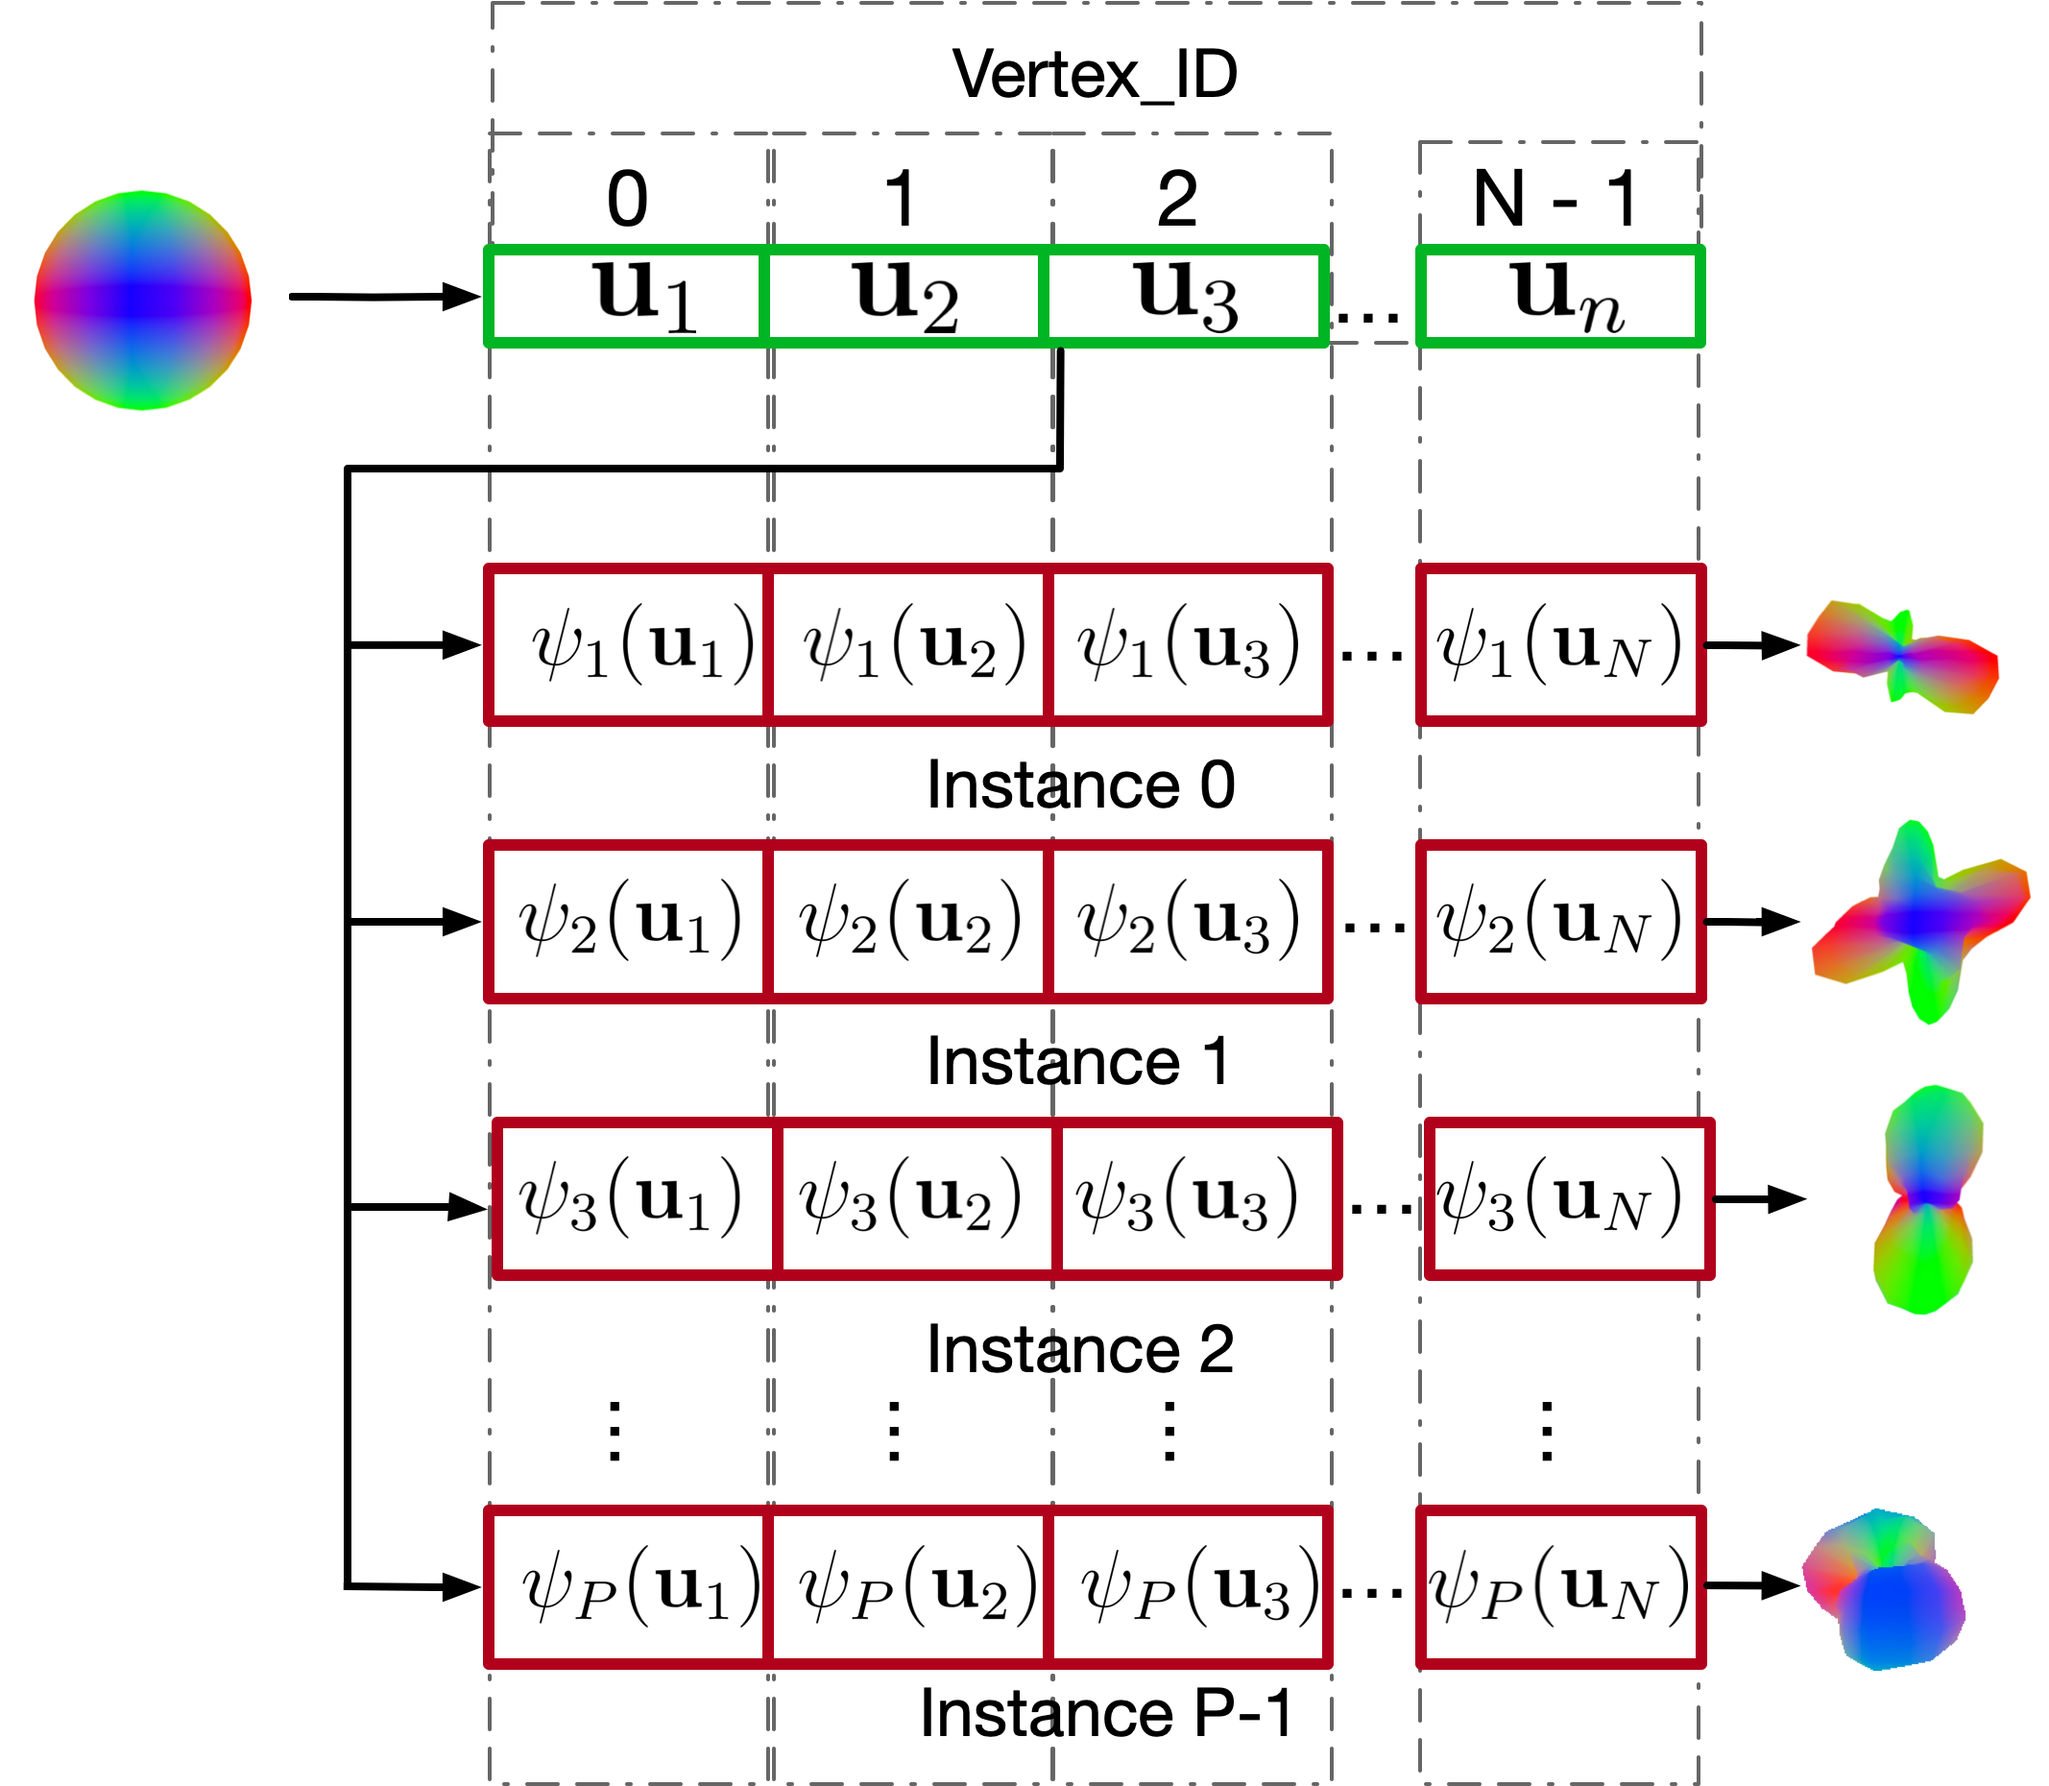
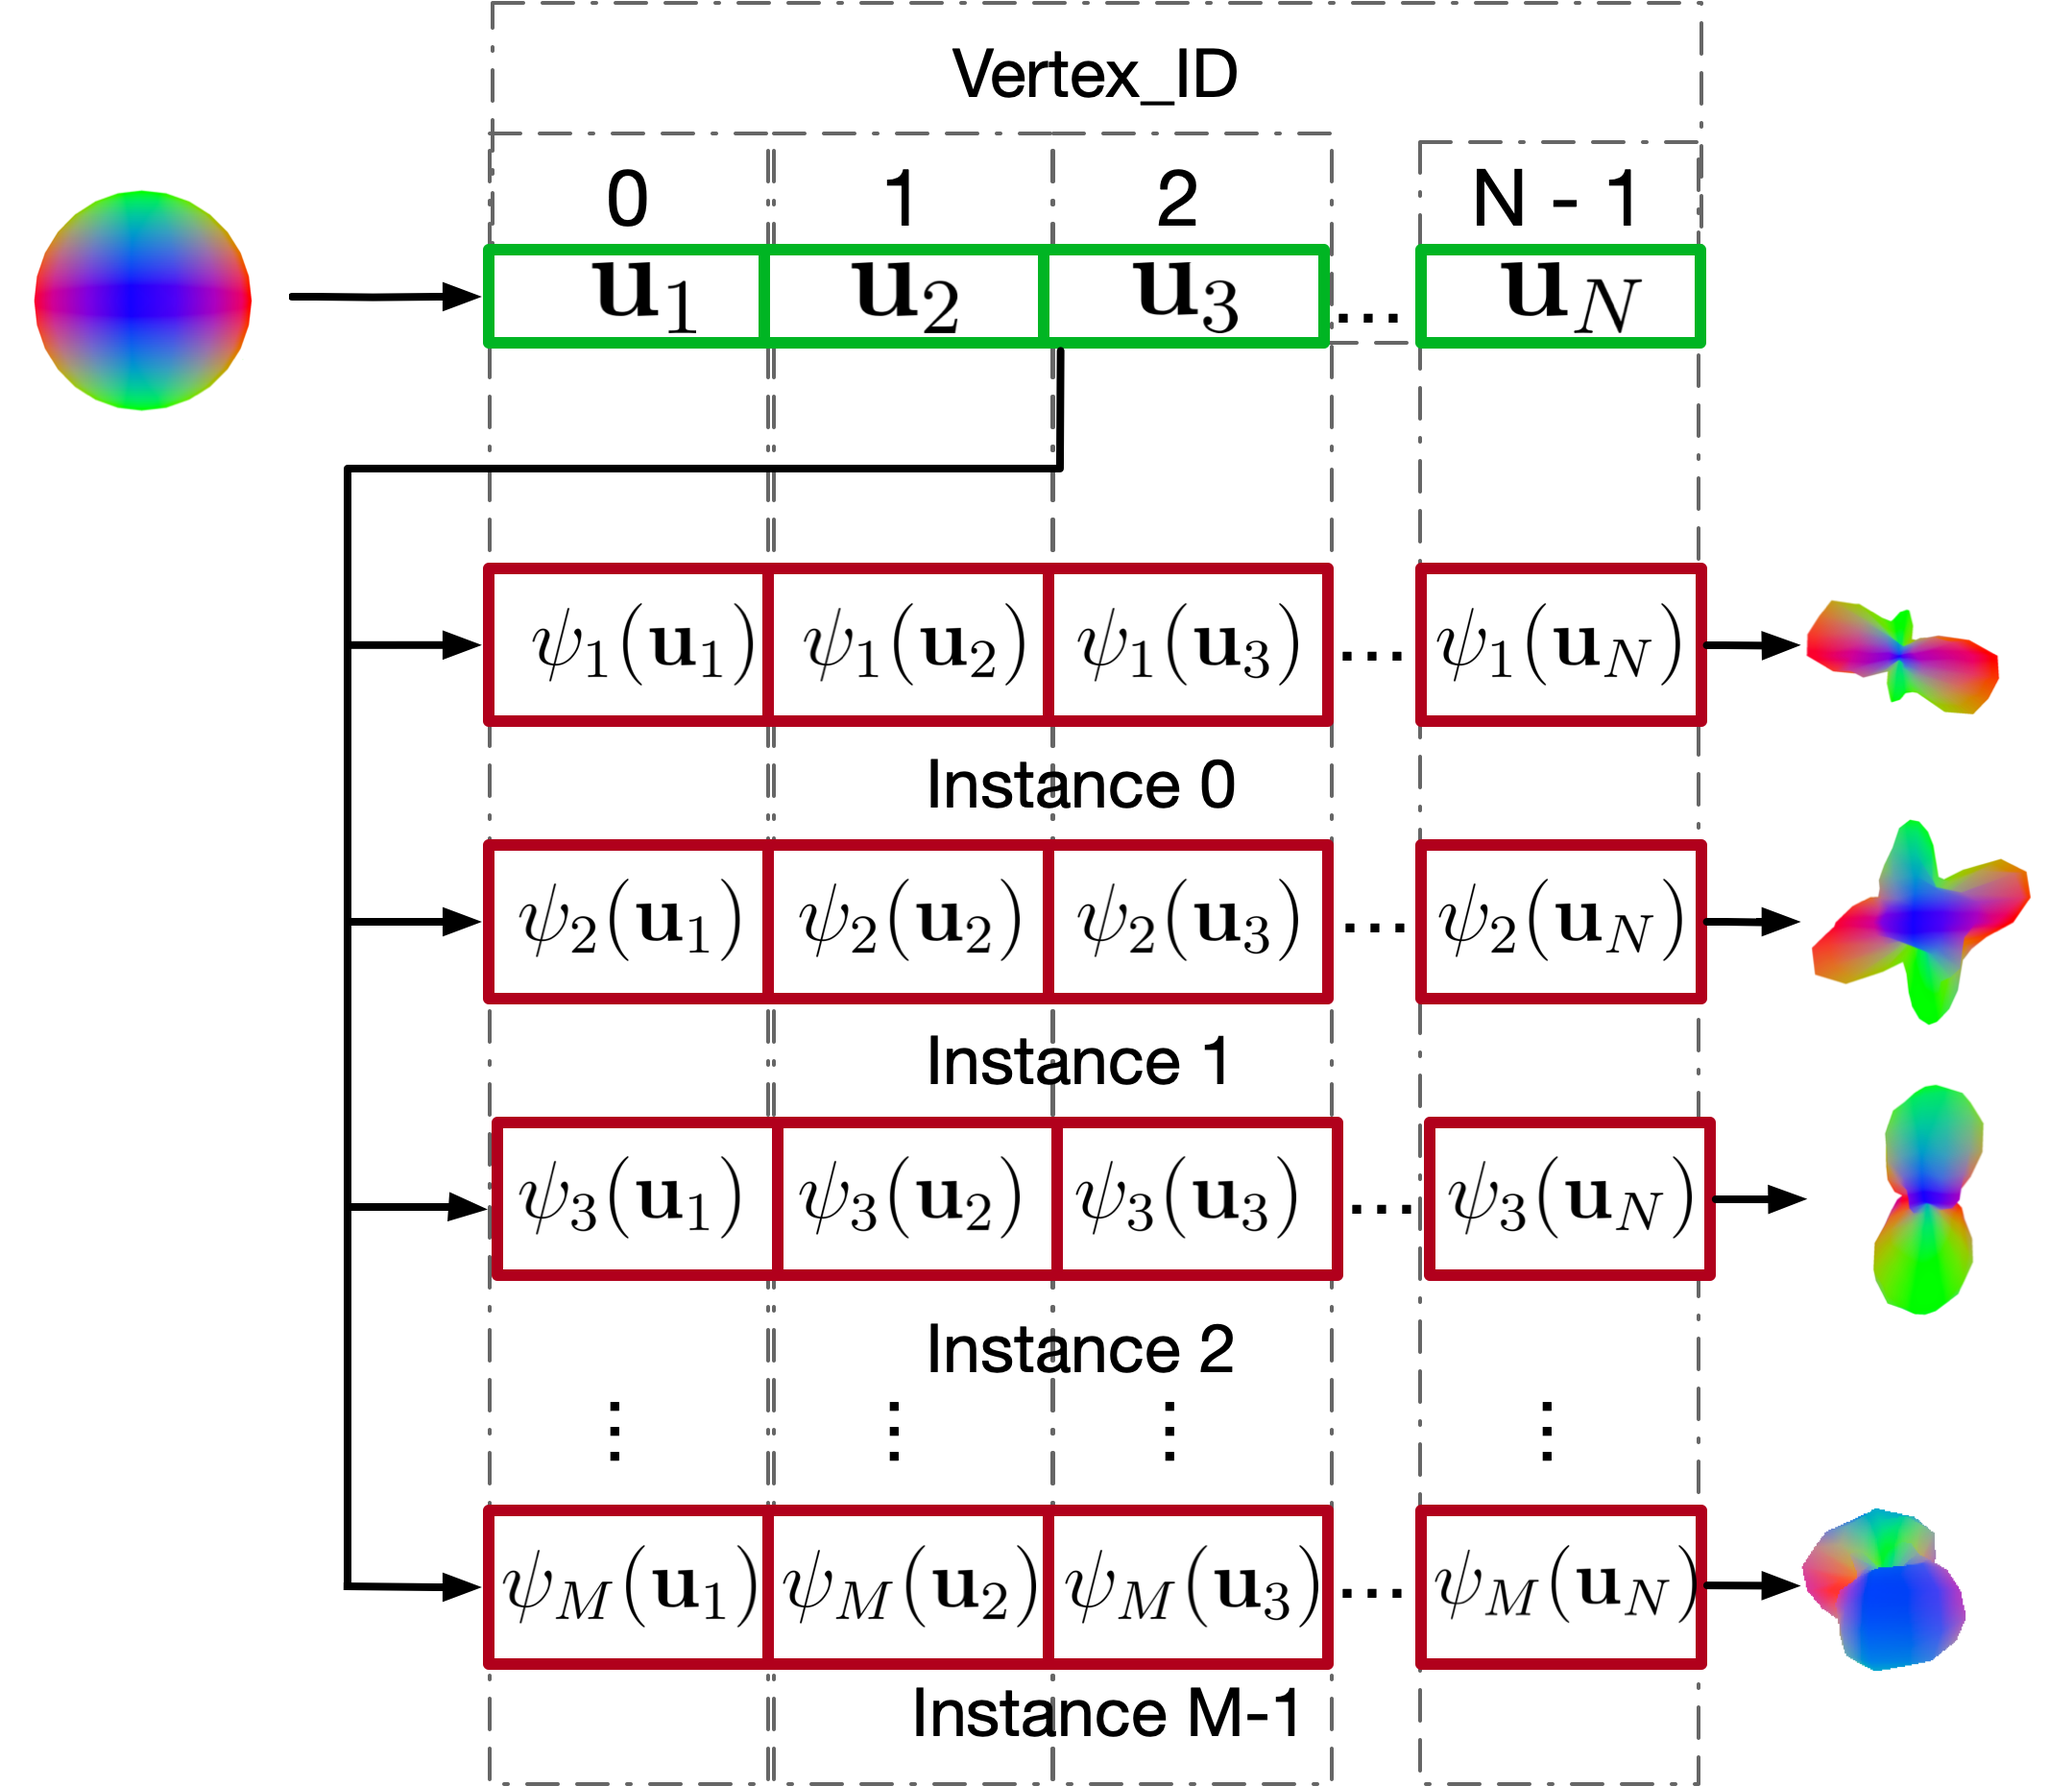
14.03 changes: changed the instances amount from P to M, corrected images accordingly. Changed a translation point from P to C, which is the real variable's label.

diff --git a/wscg-template.tex b/wscg-template.tex
@@ -54,6 +54,7 @@
 
 \usepackage{nopageno}       % no page numbers at all; uncomment for final version
 \usepackage{bm} 
+\usepackage{amsmath,amsfonts,amssymb}
 
 
 
@@ -305,8 +306,10 @@ First, let us define the vector set $\Upsilon$ as a function of $\Pi$ as shown i
 \label{eq::u_vector_set}
 \Upsilon = \{\bm{u}_k | \bm{u}_k = \frac{P_k - O}{|P_k - O|}, 
 \begin{tabular}{@{}c@{}}
-\small{$\forall P_k \in \Pi; O$ is the origin} \\
-\small{and center of the sphere}
+\small{$\forall P_k \in \Pi; O$ is the origin in } \\
+\small{$\mathbb{R}^3$ and sphere's center}
+
+
 
 \end{tabular}
 \text{ }\}
@@ -326,7 +329,7 @@ Due to the large amount of data sent to the GPU in the drawing requests, the goa
 %\sout{In this rendering scheme, the set consisting of the translation matrices and the ODF profiles consists are sent from the CPU to the GPU in each drawing request. Hence, in order to achieve the goal of interactivity, it is desirable that the data traffic between both parts is as little as possible.}
 
 \subsubsection{Translation}
-Let P be the number of instances of the rendering scheme and glyphs to be drawn. The translation points are organized as a vector of points $[C_1,C_2, \dots, C_P]$, where $C_i = (x_i, y_i, z_i)$, and sent to the GPU as an attribute. Each point of this attribute is unique for each one of the P instances of the spherical mesh.
+Let $M$ be the number of glyphs to be drawn, corresponding to the amount of instances of the spherical mesh as well. The translation points are organized as a vector of points $[C_1,C_2, \dots, C_M]$, where $C_i= C_i(x_i, y_i, z_i)$, and sent to the GPU as an attribute. Each point of this attribute is unique for each one of the $M$ instances of the spherical mesh.
 
 %The i-th index of the matrices set vector refers to the spherical mesh's i-th instance to be rendered centered at the point $C_i(x_i, y_i, z_i)$.
 
@@ -336,7 +339,7 @@ Let P be the number of instances of the rendering scheme and glyphs to be drawn.
 
 \subsubsection{ODFs}
 
-The ODF data sent to GPU consists of the N samples referring to the diffusion profiles for each P glyphs to be drawn. We construct a $\bm{\Psi}_{PxN}$ matrix, where P is the number of glyphs to be drawn, and N is the number of samples of ODF used, as given in Eq. \ref{eq::Psi}:
+The ODF data sent to GPU consists of the N samples referring to the diffusion profiles for each $M$ glyphs to be drawn. We construct a $\bm{\Psi}_{MxN}$ matrix, where $M$ is the number of glyphs to be drawn, and $N$ is the number of samples of ODF used, as given in Eq. \ref{eq::Psi}:
 
 \begin{equation}
 \label{eq::Psi}
@@ -347,20 +350,20 @@ The ODF data sent to GPU consists of the N samples referring to the diffusion pr
     \psi_1(\bm{u}_1) & \psi_1(\bm{u}_2) & \cdots \psi_1(\bm{u}_{N-1}) & \psi_1(\bm{u}_{N})  \\    
      \psi_2(\bm{u}_1)& \psi_2(\bm{u}_2) & \cdots \psi_2(\bm{u}_{N-1}) & \psi_2(\bm{u}_{N}) \\
     \vdots & \vdots & \vdots & \vdots  \\    
-     \psi_P(\bm{u}_1)&\psi_P(\bm{u}_2) & \cdots \psi_P(\bm{u}_{N-1}) & \psi_P(\bm{u}_{N})
-\end{bmatrix}, 
+     \psi_M(\bm{u}_1)&\psi_M(\bm{u}_2) & \cdots \psi_M(\bm{u}_{N-1}) & \psi_M(\bm{u}_{N})
+\end{bmatrix}
 \endgroup
 \end{equation}
 
-where $\psi_{ij}$ refers to the ODF value $\psi_i(\bm{u}_j)$ of the i-th glyph associated with the direction $\bm{u}_j$, which scales the $P_j$ vertex of the spherical mesh. The $\bm{\Psi}_{PxN}$ matrix is sent to the GPU as a 2D texture.
+where $\psi_{ij}$ refers to the ODF value $\psi_i(\bm{u}_j)$ of the i-th glyph associated with the direction $\bm{u}_j$, which scales the  vertex $P_j$ of the spherical mesh. $\bm{\Psi}_{MxN}$ is sent to the GPU as a 2D texture.
 
 On the GPU, the access of ODFs to deform its respective sphere point is done by accessing the texture data through its instance and vertex indexes in the vertex shader.
 
-The instance index (Instance\_ID) corresponds to an instanced spherical mesh centered in its respective point $P$, and since ODFs samples of one glyph are stored in the rows of $\bm{\Psi}$, the Instance\_ID access this dimension.
+The k-th instance index (Instance\_ID) corresponds to an instanced spherical mesh centered in its respective point $C_k$, and since ODFs samples of this glyph are stored in the k-th row of $\bm{\Psi}$, the Instance\_ID access this dimension.
 
 The vertex index (Vertex\_ID), in its turn, indicates a point of the spherical mesh, which corresponds to the column of its respective ODF value in $\bm{\Psi}$.
 
-Hence, we perform the GPU access by a single lookup of the texture texel\footnote{In OpenGL, the lookup is done by the command texelFetch($\bm{\Psi}$, ivec2(gl\_InstanceID, gl\_VertexID), 0)[0]} using the Vertex\_ID and Instance\_ID pair. Fig.\ref{fig::GPU2glyph} illustrates the ODF access for each instance and vertex in the GPU.
+Hence, the GPU access is performed by a simple lookup of the texture texel\footnote{In OpenGL, the lookup is done by the command texelFetch($\bm{\Psi}$, ivec2(gl\_InstanceID, gl\_VertexID), 0)[0]} using the Vertex\_ID and Instance\_ID pair. Fig.\ref{fig::GPU2glyph} illustrates the ODF access for each instance and vertex in the GPU.
 
 %(MESMO PARÁGRAFO ACIMA, COM INDICAÇÕES OPENGL)The access in the GPU of ODFs to deform its respective sphere point is done by accessing the texture data through its instance and vertex indexes in the vertex shader. To achieve this, it is necessary that the vertex index (Vertex\_ID) (gl\_VertexID\footnotemark) of the direction of each vertex correspond to the column of its respective ODF value $ \psi (\bm{u}_j) $ in diffusion profile matrix. The access of the rows of the diffusion profile matrix, corresponding to the diffusion profiles in its respective point is accessible by the instance index (gl\_InstanceID\footnotemark [\value{footnote}]). Having the data organized in this established way, the access is done by perfoming a single lookup of the texel in the texture using the Vertex\_ID and Instance\_ID as a pair. In OpenGL, this can be done by the function texelFetch\footnotemark[\value{footnote}] with the row and column access arguments through the pair ( gl\_VertexID, gl\_InstanceID)\footnotemark [\value{footnote}] \footnotetext{All commands refer to OpenGL API and GLSL shading language.}. How to access the GPU of the profile matrix is illustrated in the Fig.\ref{fig::GPU2glyph}.
 
@@ -371,7 +374,7 @@ Hence, we perform the GPU access by a single lookup of the texture texel\footnot
     %\rule{6cm}{3cm}
     \includegraphics[width=1.0\linewidth, angle=0]{figs/rendering_scheme/GPU2Glyph.png}
     \caption{
-    Illustration of $\bm{\Psi}$ (in red) and its lookup procedure in the vertex shader by its Vertex\_ID and instance indexes for $P$ glyphs to be rendered. The data structure of $\Upsilon$ is in green. For an ODF $\psi_i(\bm{u})$, the value recovered for each $u_k$ scales its respective mesh point $P_k$, deforming it.
+    Illustration of $\bm{\Psi}$ (in red) and its lookup procedure in the vertex shader by its Vertex\_ID and instance indexes for $M$ glyphs to be rendered. The data structure of $\Upsilon$ is in green. For an ODF $\psi_i(\bm{u})$, the value recovered for each $\mathbf{u}_j$ scales its respective mesh point $P_j$, deforming it.
     %\textcolor{red}{Illustration of the data organization in the GPU of the profile matrix (red) sent as 2D-Texture. The vertices of the spherical mesh are in green. At each instance, the customization of the glyph occurs through the multiplication of the mesh vertex with its respective value, recovered in the vertex shader through its vertex index for the P glyphs to be rendered}.
     }
     \label{fig::GPU2glyph}
@@ -409,11 +412,11 @@ An ODF is symmetrical if $\psi(\bm{u}) = \psi(-\bm{u})$ for all $\bm{u}$ in the 
 
 Firstly, we suggest the use of a symmetrical spherical mesh. That means, if a point $P \in \Pi \implies -P \in \Pi$ as well. As an example, a mesh generated by any order of a tessellated icosahedron fits this criterion.
 
-Secondly, we recommend that the chosen symmetrical spherical mesh's data structure is organized so that a point $P$ in an even index is followed by $-P$. This spherical mesh is sent to the GPU in the same form as stated in the subsection \ref{ssec::precomputation}.
+Secondly, we recommend that the chosen symmetrical spherical mesh's data structure is organized so that a point $P$ in an even index is followed by $-P$. This spherical mesh is sent to the GPU in the same structure as stated in the subsection \ref{ssec::precomputation}.
 
 %\textcolor{red}{Firstly, we suggest the use of a symmetrical spherical mesh, which can be, for example, any order of a sphere \todo{How? It must be explained!}generated by a tessellated icosahedron. We suggest as well that the vector containing its vertices is organized in such a way that the vector in the (2k)-th index is symmetrical to the (2k+1)-th.}
 
-Following these recommendations, the data structure of points in the sphere $[P_1, P_2, P_3, P_4, \dots, P_{N-1}, P_N]$ becomes $[P_1, -P_1, P_3, -P_3, \dots, P_{N-1}, -P_{N-1}]$ and their associated $\Upsilon$ turns to $[\bm{u}_1, -\bm{u}_1, \bm{u}_3, -\bm{u}_3, \dots, \bm{u}_{N-1}, -\bm{u}_{N-1}]$. In this situation, $\bm{\Psi}$ is now:
+Following these recommendations, the data structure of points in the sphere $[P_1, P_2, P_3, P_4, \dots, P_{N-1}, P_N]$ becomes $[P_1, -P_1, P_3, -P_3, \dots, P_{N-1}, -P_{N-1}]$, their associated $\Upsilon$ turns to $[\bm{u}_1, -\bm{u}_1, \bm{u}_3, -\bm{u}_3, \dots, \bm{u}_{N-1}, -\bm{u}_{N-1}]$ and $\bm{\Psi}$ becomes:
 
 \begin{equation*}
 \bm{\Psi} = 
@@ -426,15 +429,15 @@ Following these recommendations, the data structure of points in the sphere $[P_
 
     \vdots & \vdots & \vdots & \vdots  \\
     
-     \psi_P(\bm{u}_1)&\psi_P(-\bm{u}_1) & \cdots \psi_P(\bm{u}_{N-1}) & \psi_P(-\bm{u}_{N-1})
+     \psi_M(\bm{u}_1)&\psi_M(-\bm{u}_1) & \cdots \psi_M(\bm{u}_{N-1}) & \psi_M(-\bm{u}_{N-1})
     
-\end{bmatrix},
+\end{bmatrix}
 \endgroup
 \end{equation*}
 
 where each of the (2k+1)-th column is the same as the (2k+2)-th ($0 \leq k < \frac{N}{2}$).
 
-Hence, we define a matrix $\bm{\Psi^h}_{Px\frac{N}{2}}$ such that $\bm{\psi^h}_{ij} = \bm{\psi}_{i(2j-1)}$, which is described in the expression below:
+Hence, we define a matrix $\bm{\Psi^h}_{Px\frac{M}{2}}$ such that $\bm{\psi^h}_{ij} = \bm{\psi}_{i(2j-1)}$, which is described in the expression below:
 
 %\todo{Very confusing!}We \textcolor{blue}{re}define \textcolor{blue}{Eq. \ref{eq::Psi}}, \sout{a matrix $\bm{\Psi^h}_{Px\frac{N}{2}}$ where} \textcolor{blue}{such that} $\bm{\psi^h}_{ij} = \bm{\psi}_{i(2j-1)}$. \sout{that is sent to GPU on every drawing request. Its form is stated below:}\textcolor{blue}{It assumes the form}
 
@@ -450,7 +453,7 @@ Hence, we define a matrix $\bm{\Psi^h}_{Px\frac{N}{2}}$ such that $\bm{\psi^h}_{
 
     \vdots & \vdots & \vdots & \vdots  \\
     
-     \psi_P(\bm{u}_1)&\psi_P(\bm{u}_3) & \cdots \psi_P(\bm{u}_{N-3}) & \psi_P(\bm{u}_{N-1})
+     \psi_M(\bm{u}_1)&\psi_M(\bm{u}_3) & \cdots \psi_M(\bm{u}_{N-3}) & \psi_M(\bm{u}_{N-1})
     
 \end{bmatrix}
 \endgroup
